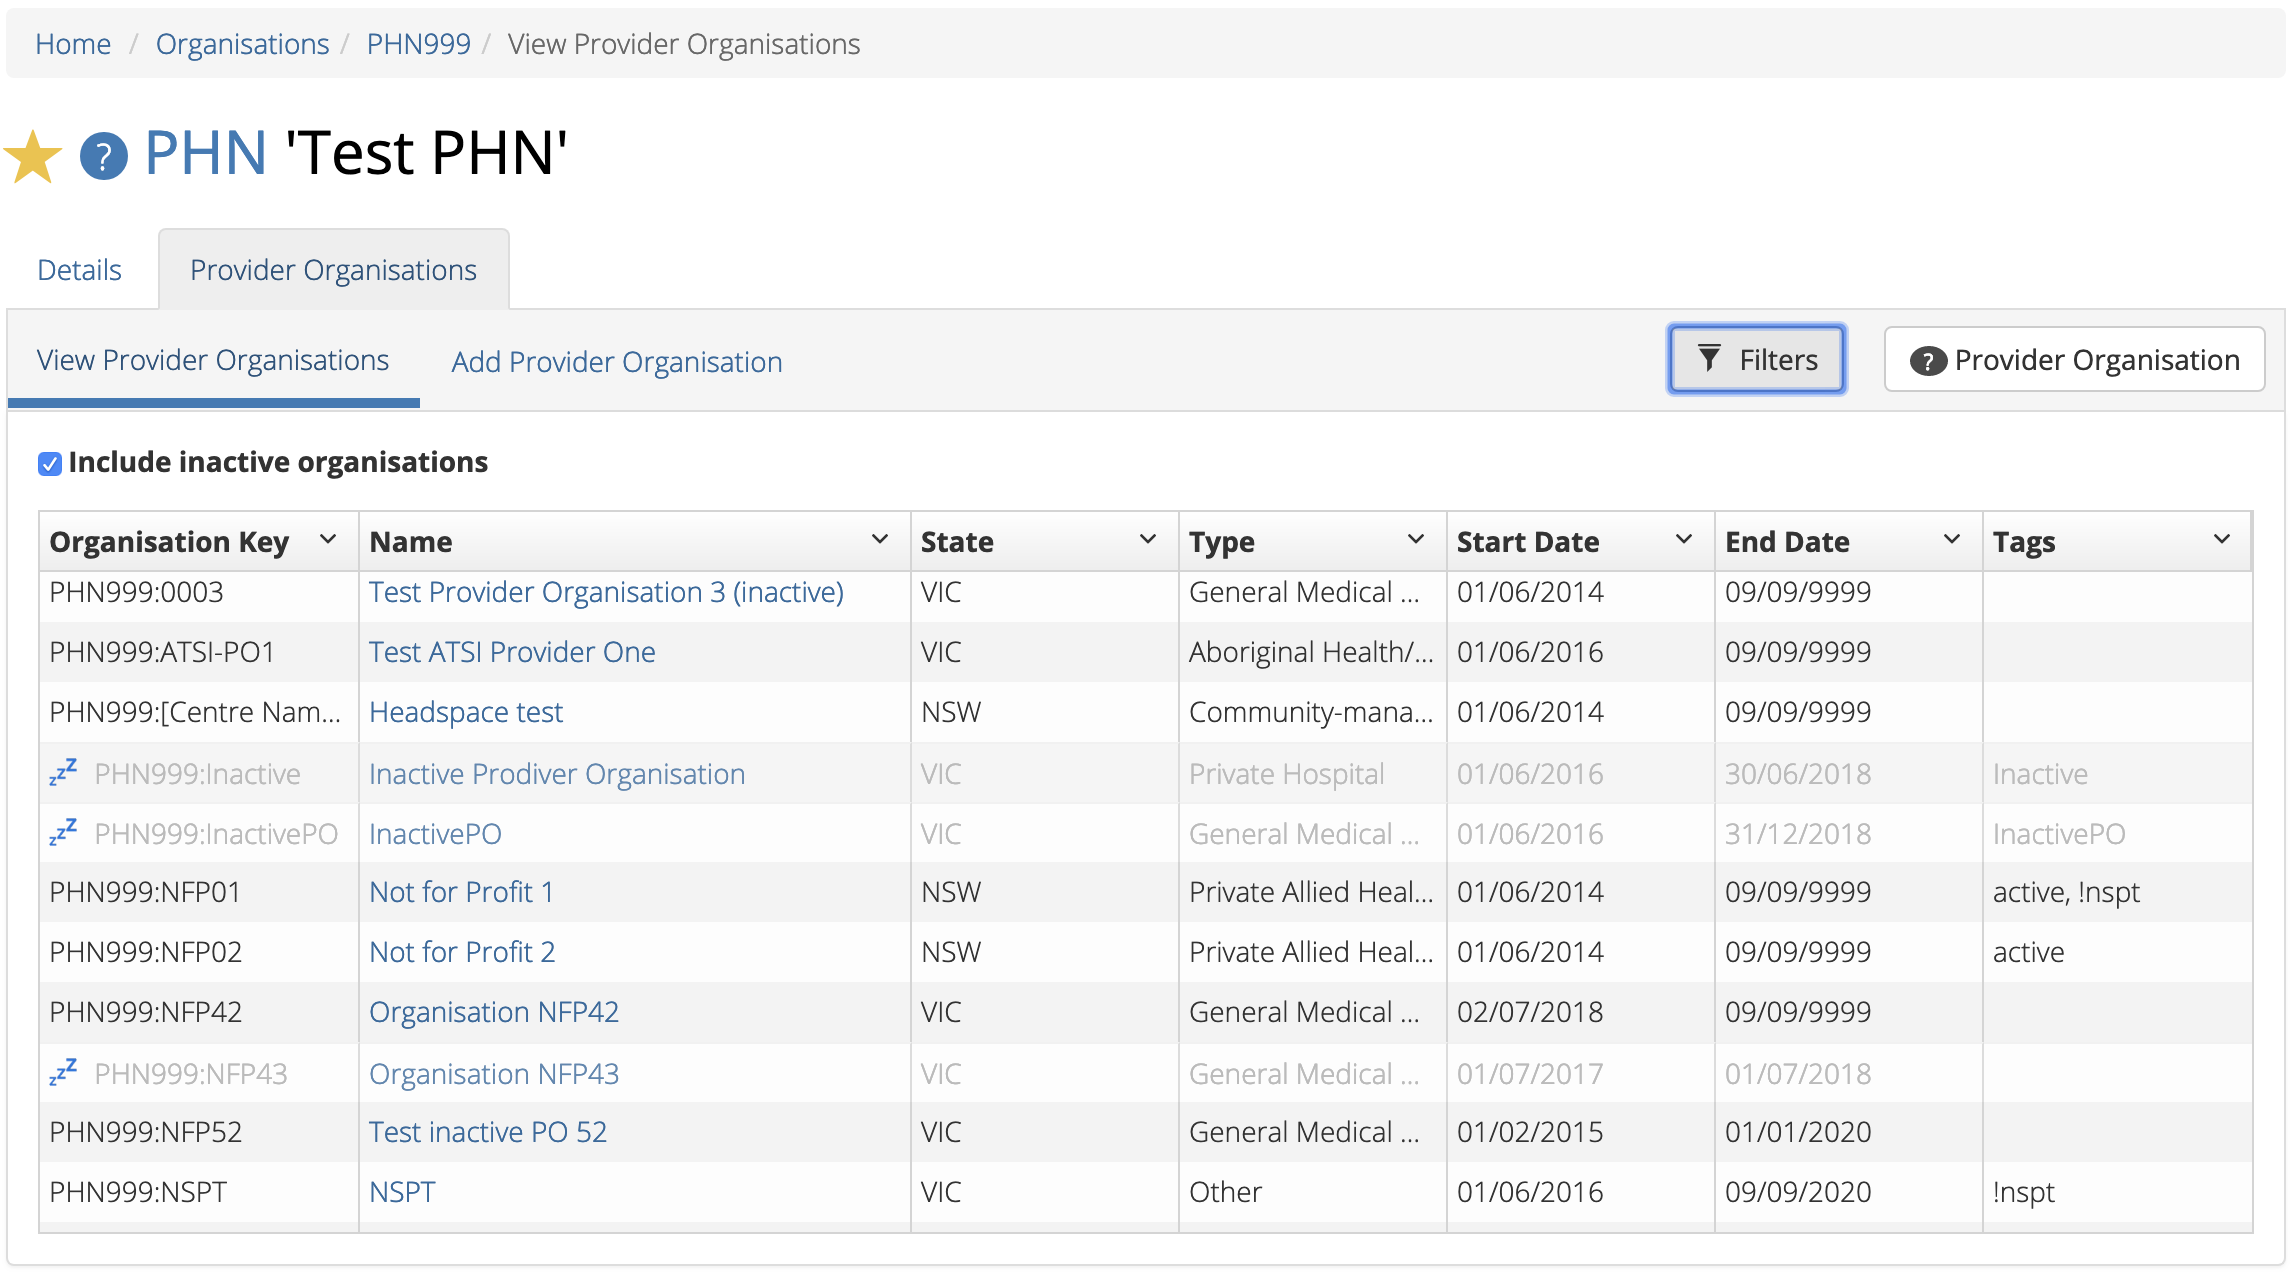
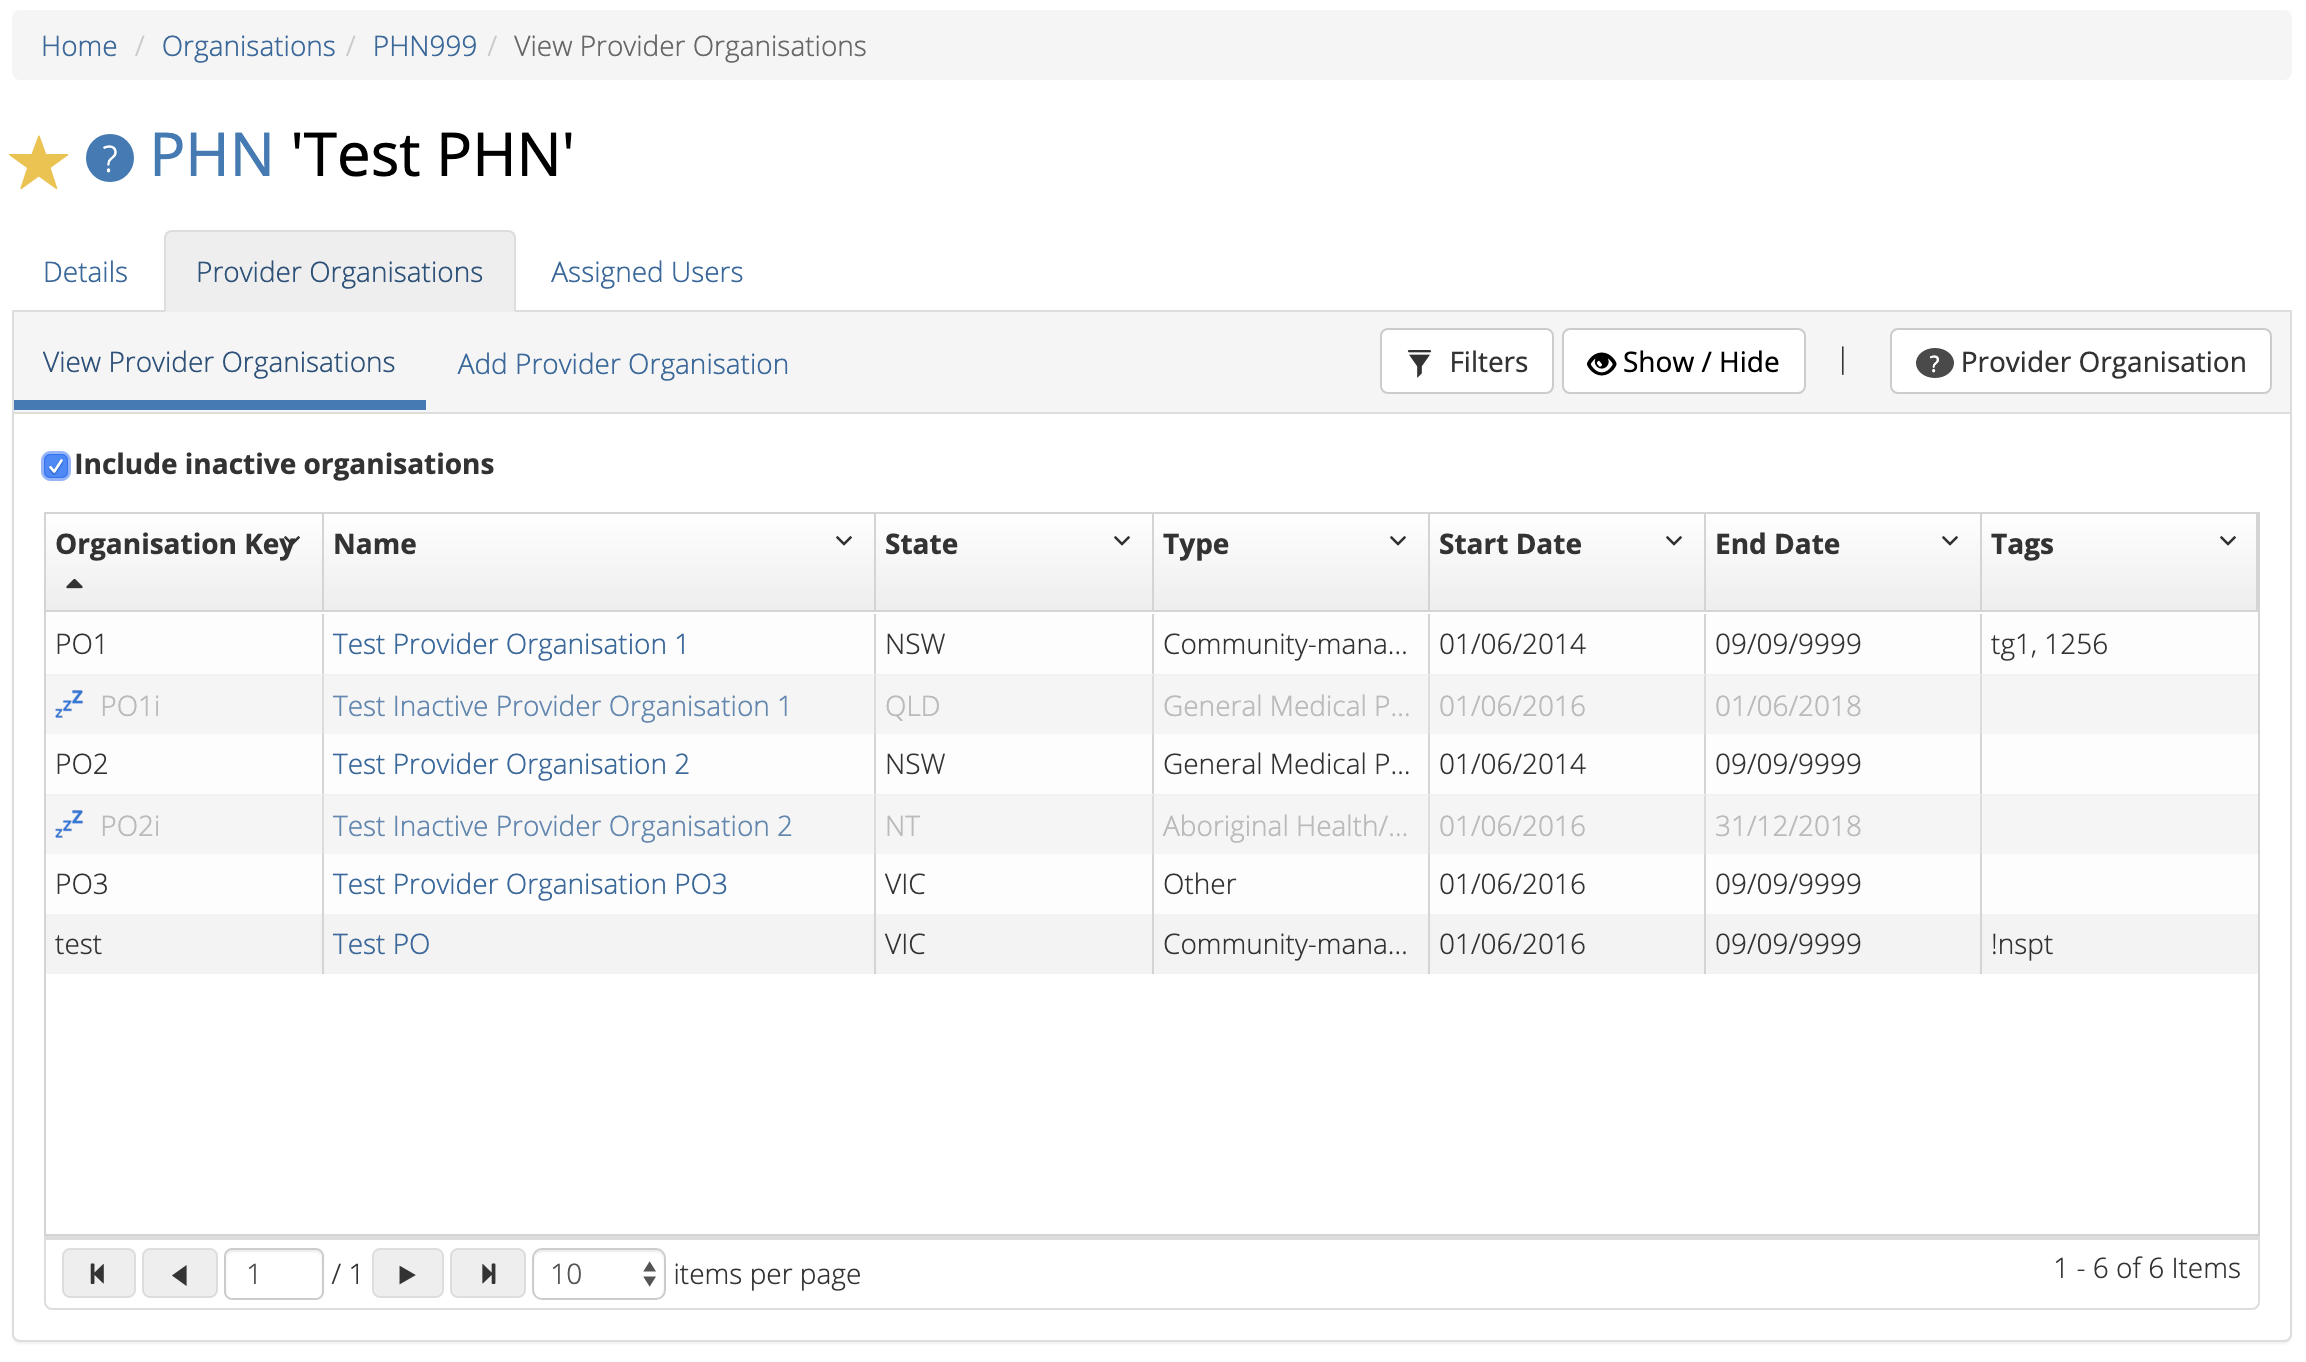
'Organisations' pagination screenshot updates V0.29.3
Organisation pagination screenshot updates V0.29.3

diff --git a/doc/organisations.rst b/doc/organisations.rst
@@ -49,6 +49,10 @@ the provider organisations of a PHN. Follow these steps:
 1. Navigate to the Organisations tab.
 2. Click on the PHN name in blue text displayed within the table list.
 3. Click on the 'Provider Organisations' tab.
+
+.. figure:: screen-shots/organisation-provider.png
+   :alt: PMHC MDS View Organisation
+
 4. Sort the listed provider organisations by simply clicking on a column header
    of the provider organisations table. Alternately you can click on the arrow beside a
    column header for more sort options, as follows:
@@ -58,16 +62,24 @@ the provider organisations of a PHN. Follow these steps:
    - Remove Sort
    - Hide Column
 
+You can also show or hide columns by unselecting and reselecting the items listed after pressing the 'Show/Hide' button.
+
+.. figure:: screen-shots/organisation-provider-show-hide.png
+   :alt: PMHC MDS Provider Organisations Show/Hide
+
 To filter the listed provider organisations:
 
 1. Click the grey 'Filters' button.
-2. Start typing in an edit box now displayed under the column headers.
+2. Start typing in any of the column header edit boxes now displayed above the column headers.
+3. Click the blue 'Apply' button.
 
-   .. figure:: screen-shots/organisations-provider-filter.png
-      :alt: PMHC MDS Organisations Filter
+   .. figure:: screen-shots/organisation-provider-filter.png
+      :alt: PMHC MDS Provider Organisations Filter
 
-3. To remove the filter, click the grey cross within the edit box beside any
-   entered text.
+4. To remove the filters, click the black cross on the applied filter name or the 'Clear all' if more than one filter is applied.
+
+.. figure:: screen-shots/organisation-provider-filter-applied.png
+   :alt: PMHC MDS Provider Organisations Filter
 
 .. _view-provider-organisation:
 

diff --git a/doc/index.rst b/doc/index.rst
@@ -1,3 +1,5 @@
+.. _user-docs:
+
 PMHC-MDS User Documentation
 ===========================
 
